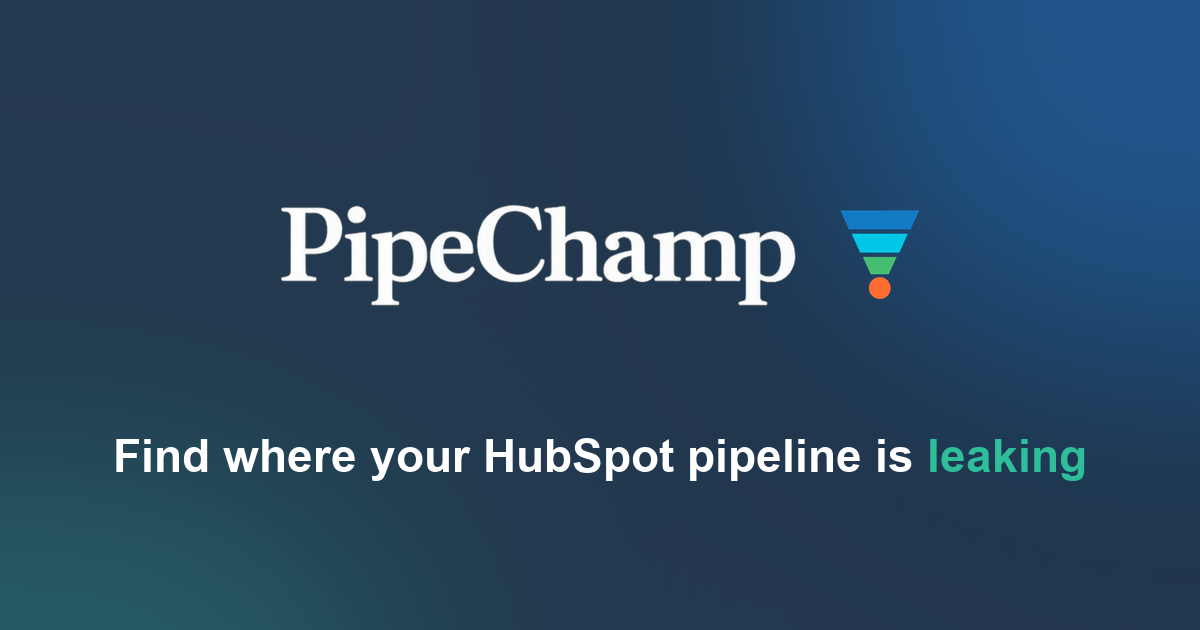
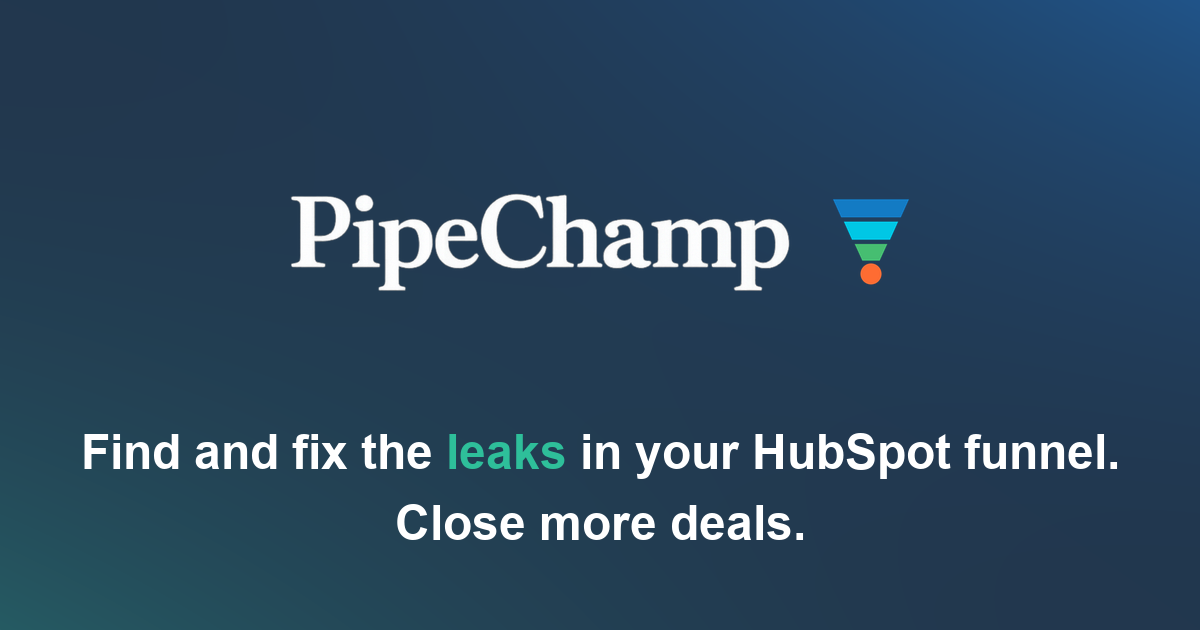
Landing: new share headline 'Find and fix the leaks in your HubSpot funnel. Close more deals.'
Set og:title + twitter:title to the new headline and regenerated the OG image
(assets/og-card.png) with matching design (navy gradient + wordmark + 'leaks'
accented). Restored a supporting description so title and description differ.

diff --git a/landing/index.html b/landing/index.html
@@ -28,15 +28,15 @@
 <!-- Open Graph / Twitter -->
 <meta property="og:type" content="website" />
 <meta property="og:site_name" content="PipeChamp" />
-<meta property="og:title" content="Find where your HubSpot pipeline is leaking" />
-<meta property="og:description" content="Find and fix the leaks in your HubSpot funnel. Close more deals." />
+<meta property="og:title" content="Find and fix the leaks in your HubSpot funnel. Close more deals." />
+<meta property="og:description" content="Connect HubSpot and get pipeline insights in 30 seconds — every drop-off, stuck deal, and slow follow-up, ranked by revenue impact." />
 <meta property="og:url" content="https://get.pipechamp.app/" />
 <meta property="og:image" content="https://get.pipechamp.app/assets/og-card.png" />
 <meta property="og:image:width" content="1200" />
 <meta property="og:image:height" content="630" />
 <meta name="twitter:card" content="summary_large_image" />
-<meta name="twitter:title" content="Find where your HubSpot pipeline is leaking" />
-<meta name="twitter:description" content="Find and fix the leaks in your HubSpot funnel. Close more deals." />
+<meta name="twitter:title" content="Find and fix the leaks in your HubSpot funnel. Close more deals." />
+<meta name="twitter:description" content="Connect HubSpot and get pipeline insights in 30 seconds, ranked by revenue impact." />
 <meta name="twitter:image" content="https://get.pipechamp.app/assets/og-card.png" />
 
 <!-- Fonts -->
